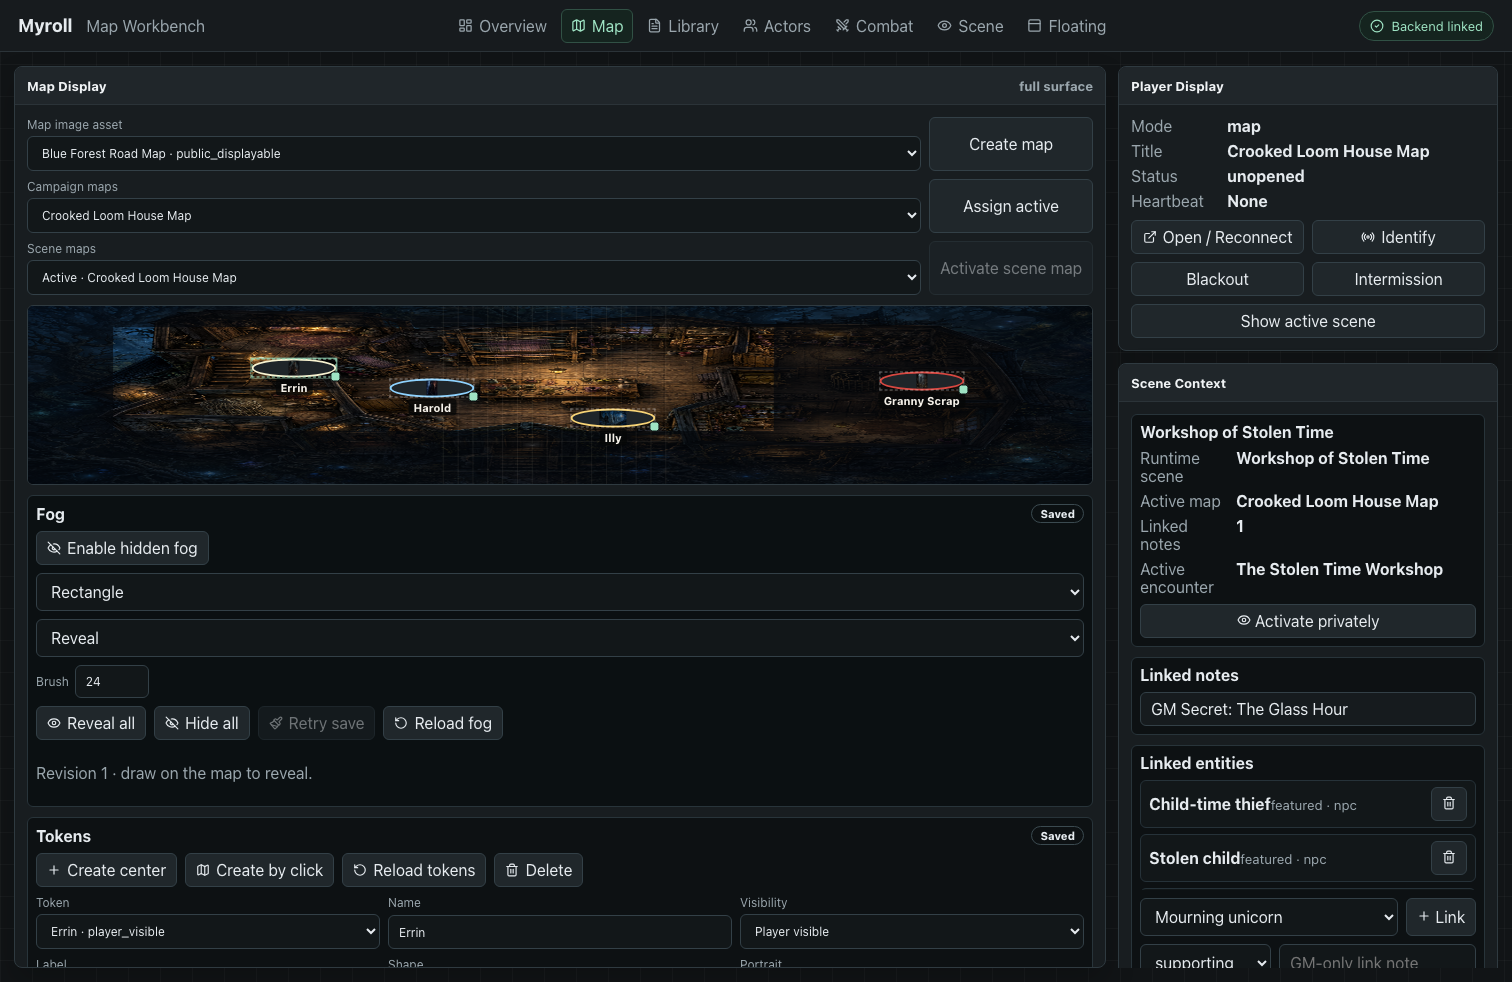
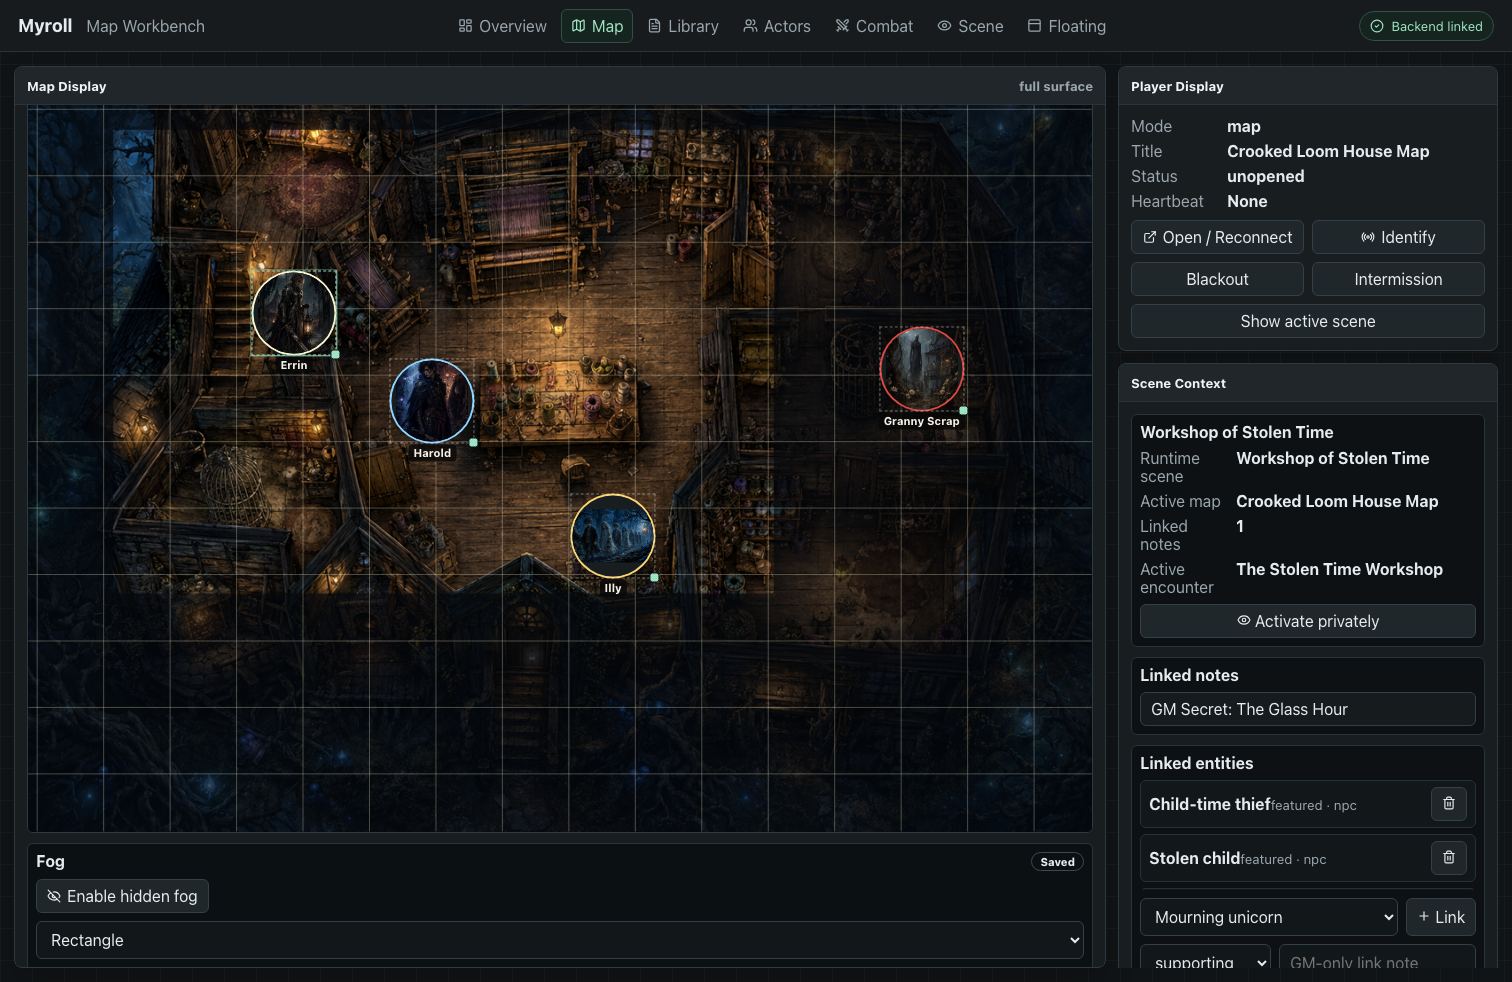
Correct map renderer stage geometry
Size the shared map stage from the rendered container and map payload so fit/fill modes keep the coordinate layer at the real map aspect ratio.

This keeps grid, fog, and token positions on the same geometry as the map image instead of letting tokens stretch with a viewport-sized stage.

Regenerate the primary GM workbench and player projection README screenshots so the first two images no longer show squashed maps or elliptical portrait tokens.

diff --git a/frontend/src/map/MapRenderer.tsx b/frontend/src/map/MapRenderer.tsx
@@ -1,5 +1,5 @@
 import { useEffect, useRef, useState } from "react";
-import type { ReactNode } from "react";
+import type { CSSProperties, ReactNode } from "react";
 import { WifiOff } from "lucide-react";
 
 import type { MapRenderPayload, PublicMapToken } from "../types";
@@ -11,6 +11,29 @@ function gridLinePositions(length: number, size: number, offset: number): number
   if (start < 0) start += size;
   for (let position = start; position <= length; position += size) positions.push(position);
   return positions.slice(0, 1000);
+}
+
+function mapStageSize(
+  payload: MapRenderPayload,
+  containerSize: { width: number; height: number } | null
+): { width: number; height: number } {
+  const fallback = { width: payload.width, height: payload.height };
+  if (!containerSize || containerSize.width <= 0 || containerSize.height <= 0) return fallback;
+  if (payload.fit_mode === "stretch") {
+    return { width: containerSize.width, height: containerSize.height };
+  }
+  const scaleX = containerSize.width / payload.width;
+  const scaleY = containerSize.height / payload.height;
+  const scale =
+    payload.fit_mode === "fill"
+      ? Math.max(scaleX, scaleY)
+      : payload.fit_mode === "actual_size"
+        ? Math.min(1, scaleX, scaleY)
+        : Math.min(scaleX, scaleY);
+  return {
+    width: payload.width * scale,
+    height: payload.height * scale
+  };
 }
 
 function drawFoggedMap(canvas: HTMLCanvasElement, payload: MapRenderPayload, renderMode: "gm" | "player", onFailure: () => void) {
@@ -185,8 +208,24 @@ export function MapRenderer({
   renderMode?: "gm" | "player";
   interactionLayer?: ReactNode;
 }) {
+  const containerRef = useRef<HTMLDivElement | null>(null);
+  const [containerSize, setContainerSize] = useState<{ width: number; height: number } | null>(null);
   const [failed, setFailed] = useState(false);
   useEffect(() => setFailed(false), [payload?.asset_url, payload?.fog?.mask_url, renderMode]);
+  useEffect(() => {
+    const element = containerRef.current;
+    if (!element || typeof ResizeObserver === "undefined") return;
+    const updateSize = (rect: DOMRectReadOnly | DOMRect) => {
+      setContainerSize({ width: rect.width, height: rect.height });
+    };
+    updateSize(element.getBoundingClientRect());
+    const observer = new ResizeObserver((entries) => {
+      const entry = entries[0];
+      if (entry) updateSize(entry.contentRect);
+    });
+    observer.observe(element);
+    return () => observer.disconnect();
+  }, []);
   if (!payload || !payload.width || !payload.height || failed) {
     return (
       <div className="map-unavailable">
@@ -201,9 +240,15 @@ export function MapRenderer({
   const xLines = showSvgGrid ? gridLinePositions(payload.width, payload.grid.size_px, payload.grid.offset_x) : [];
   const yLines = showSvgGrid ? gridLinePositions(payload.height, payload.grid.size_px, payload.grid.offset_y) : [];
   const aspectRatio = `${payload.width} / ${payload.height}`;
+  const stageSize = mapStageSize(payload, containerSize);
+  const stageStyle: CSSProperties = {
+    aspectRatio,
+    width: stageSize.width,
+    height: stageSize.height
+  };
   return (
-    <div className={`map-renderer fit-${payload.fit_mode} render-${renderMode}`} style={renderMode === "gm" ? { aspectRatio } : undefined}>
-      <div className="map-stage" style={{ aspectRatio }}>
+    <div ref={containerRef} className={`map-renderer fit-${payload.fit_mode} render-${renderMode}`} style={renderMode === "gm" ? { aspectRatio } : undefined}>
+      <div className="map-stage" style={stageStyle}>
         {usesFog ? (
           <FogCanvas payload={payload} renderMode={renderMode} onFailure={() => setFailed(true)} />
         ) : (

diff --git a/frontend/src/styles.css b/frontend/src/styles.css
@@ -931,20 +931,25 @@ textarea {
 
 .map-stage {
   position: relative;
+  flex: 0 0 auto;
   overflow: hidden;
   max-width: 100%;
   max-height: 100%;
 }
 
 .map-renderer.fit-fit .map-stage {
-  width: 100%;
-  height: 100%;
+  width: auto;
+  height: auto;
 }
 
-.map-renderer.fit-fill .map-stage,
+.map-renderer.fit-fill .map-stage {
+  width: auto;
+  height: auto;
+}
+
 .map-renderer.fit-stretch .map-stage {
-  width: 100%;
-  height: 100%;
+  max-width: none;
+  max-height: none;
 }
 
 .map-renderer.fit-actual_size .map-stage {
@@ -956,12 +961,6 @@ textarea {
   width: 100%;
   min-height: 0;
   flex: 0 0 auto;
-}
-
-.map-renderer.render-gm .map-stage {
-  width: 100%;
-  height: auto;
-  max-height: none;
 }
 
 .map-stage img {
@@ -993,14 +992,6 @@ textarea {
   height: auto;
   max-width: 100%;
   max-height: 100%;
-}
-
-.map-renderer.render-gm .map-stage img,
-.map-renderer.render-gm .map-canvas {
-  width: 100%;
-  height: auto;
-  max-width: 100%;
-  max-height: none;
 }
 
 .map-grid {
